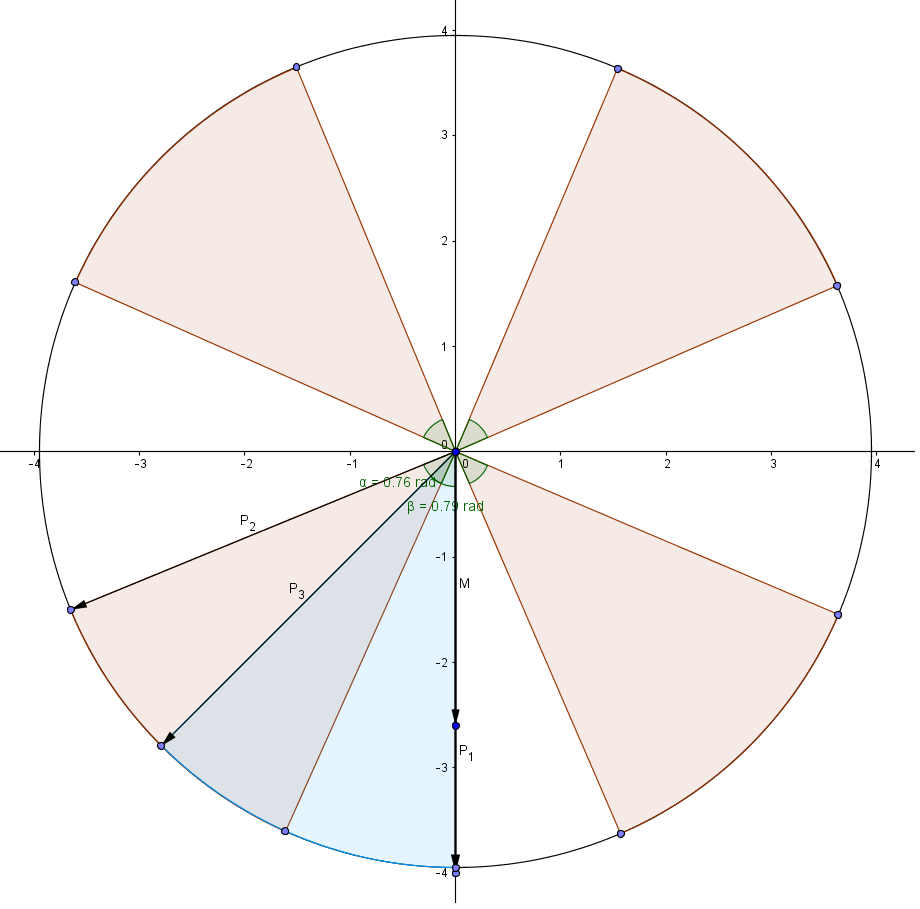
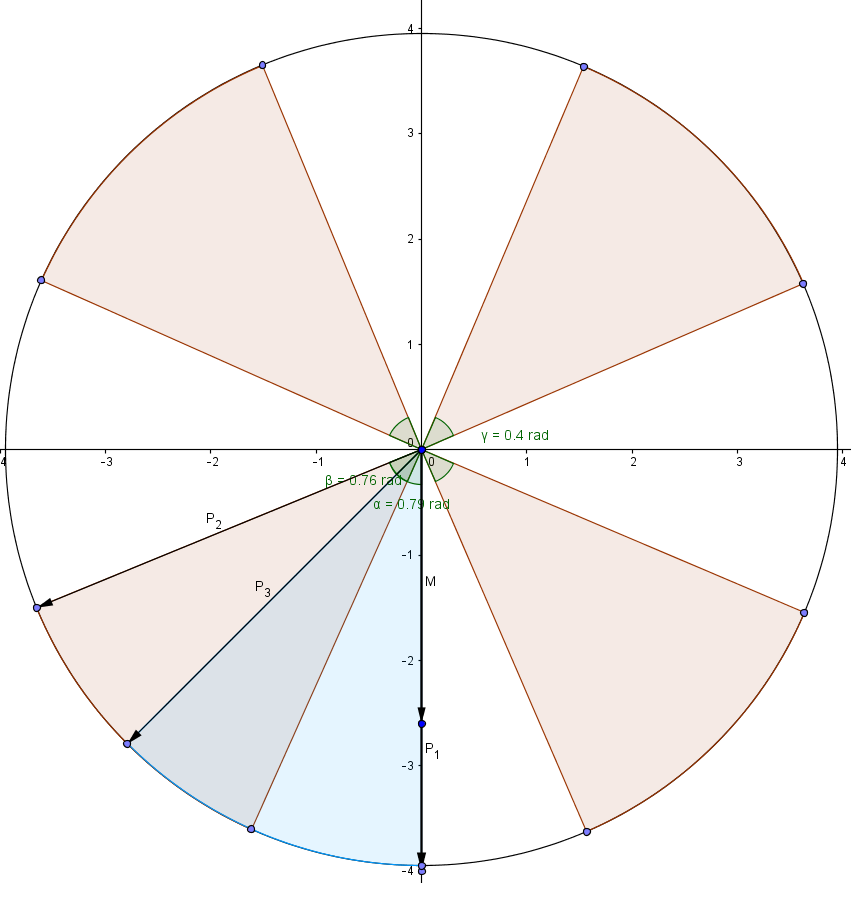
estudo geometrico update

diff --git a/EMMA-SOTA/estudo_geometrico.tex b/EMMA-SOTA/estudo_geometrico.tex
@@ -1,4 +1,4 @@
-\subsection{Estudo geométrico}
+\subsection{Estudo geométrico}\label{sec::estudo_geom}
 O estudo geométrico é uma avaliação simples de alcance dos manipuladores
 industriais no ambiente do aro câmara. Tem como objetivo verificar se o
 manipulador consegue percorrer todos os pontos da pá dentro das restrições da
@@ -11,8 +11,8 @@ Assumimos $R = 3.95 m$ e $R_m = 3 m$, onde $R$ é a distância do centro do cone
 superfície do aro câmara, e $R_m$ é o comprimento da pá. Logo, podemos
 inferir o comprimento do aro câmara $P = 2*\pi *R = 24.81 m$. Em relação ao
 centro do cone, o setor circular que cada pá ocupa tem um ângulo, em radianos,
-de $\alpha = \frac{R_m*2*\pi}{P} = 0.76$, e a metade do setor circular entre
-as pás tem ângulo $\beta = \pi/4$, já que elas são simetricamente distribuídas.
+de $\beta = \frac{R_m*2*\pi}{P} = 0.76$, e a metade do setor circular entre
+as pás tem ângulo $\alpha = \pi/4$, já que elas são simetricamente distribuídas.
 A figura~\ref{pa} mostra os parâmetros acima, onde as pás estão representadas
 como setores circulares roxos e metade da distância entre as pás como setor
 azul.
@@ -25,34 +25,76 @@ azul.
 \end{figure}
 
 Utilizando notação vetorial, temos: $\overrightarrow{P_1} = (0,-R,0)$. Considere
-$$\overrightarrow{{P_2}} = R_z(-(\alpha/2 + \beta))
-\overrightarrow{P_1}$$ e $$\overrightarrow{{P_3}} = R_z(-\beta))
+$$\overrightarrow{{P_2}} = R_z(-(\beta/2 + \alpha))
+\overrightarrow{P_1}$$ e $$\overrightarrow{{P_3}} = R_z(-\alpha))
 \overrightarrow{P_1}$$ , onde $R_z$ é rotação em  torno de $Z$. Considere agora
 o vetor $$\overrightarrow{d} =
-R_{\overrightarrow{\overline{P_3}}}(-\omega)R_z(-\alpha/2 -
-\beta)\overrightarrow{P_1}$$, onde $R_{\overrightarrow{\overline{P_3}}}$ é rotação em torno do vetor unitário
+R_{\overrightarrow{\overline{P_3}}}(-\omega)R_z(-\beta/2 -
+\alpha)\overrightarrow{P_1}$$, onde $R_{\overrightarrow{\overline{P_3}}}$ é rotação em torno do vetor unitário
 na direção de $\overrightarrow{P_3}$ e $\omega$ é o ângulo de rotação da pá em
 seu próprio eixo (valor que pode variar de $0$ a $28^o$).
 Dessa forma, busca-se o $$min (\left \| \overrightarrow{d} - \overrightarrow{M} 
-\right \|) =\left \| R_{\overrightarrow{\overline{P_3}}}(-\omega)R_z(-\alpha/2 -
-\beta)\overrightarrow{P} - \overrightarrow{M} \right \|$$, onde
+\right \|) =\left \| R_{\overrightarrow{\overline{P_3}}}(-\omega)R_z(-\beta/2 -
+\alpha)\overrightarrow{P} - \overrightarrow{M} \right \|$$, onde
 $\overrightarrow{M}=(0,-x,0)$ é a localização da base do manipulador. Dessa
 forma, obtemos a menor distância entre base e o extremo da pá para $\omega,
-x, \beta$. Consequentemente, pode-se inferir o alcance mínimo do manipulador.
+x, \alpha$. Consequentemente, pode-se inferir o alcance mínimo do manipulador.
 
-Pode-se posicionar a base do manipulador em diferentes valores de $\beta$, que é
-o mesmo que girar a turbina e alterar a posição da pá. Para $\beta = 0$, por
-exemplo, o manipulador se encontra em frente à pá, e para $\beta = \pi/4$ ele está entre as pás.
+Pode-se posicionar a base do manipulador em diferentes valores de $\alpha$, que é
+o mesmo que girar a turbina e alterar a posição da pá. Para $\alpha = 0$, por
+exemplo, o manipulador se encontra em frente à pá, e para $\alpha = \pi/4$ ele está entre as pás.
 
 A análise para a escotilha inferior consiste em posicionar o manipulador no
-centro ou entre as pás ($\beta = 0$ ou $\beta = \pi/4$). \ldots 
+centro ou entre as pás ($\alpha = 0$ ou $\alpha = \pi/4$) e assumir $\omega =
+\pi/4$ (pá girada $45^o$). No caso em que o
+manipulador se encontra em frente à pá, alcançar todos os pontos da pá  é
+traçar uma circunferência que a envolve, representando
+a área de alcance do manipulador. Após o cálculo desta
+circunferência, deve-se distanciar ortogonalmente a base do manipulador à pá,
+pois este deve estar posicionado de uma maneira que não haja colisões. A
+figura~\ref{paemfrente} mostra a circunferência, cujo raio pode ser encontrado
+analiticamente pelas equações:
+$$\rho ^2 = r^2+R_c^2-2R_crcos(\beta)$$
+$$\rho ^2 = R^2+R_c^2-2R_cRcos(\beta)$$
+onde $R$ é o raio do aro câmara, $r$ é o raio do cone da turbina, $R_c$ é a
+distância do centro da pá ao centro do cone e $\rho$ é o raio da circunferência
+que circunscreve a pá. Obtêm-se  $\rho=1.6387$ e $h=1.0157$, onde $h$ é a altura
+da base do manipulador ($R-R_c$). Observe que $\rho$ é o alcance para o
+manipulador sob a pá, logo temos que supor uma distância $d$ entre o manipulador
+e a pá a fim de evitar colisões. Assumindo diversos valores para $d$, obtemos o
+gráfico~\ref{reach} que mostra o alcance necessário do manipulador versus
+distância que ele se encontra da pá. 
+
+\begin{figure}[h!]
+\centering
+	\includegraphics[width=\columnwidth]{figs/estudo/geometrico/paemfrente.png} 
+	\caption{Estudo geométrico do manipulador industrial em frente à pá.}
+	\label{paemfrente}
+\end{figure}
+
+\begin{figure}[h!]
+\centering
+	\includegraphics[width=\columnwidth]{figs/estudo/geometrico/reach.png} 
+	\caption{Gráfico que mostra o alcance necessário do manipulador versus a
+	distância que ele se encontra da pá.}
+	\label{reach} 
+\end{figure}
+
+Para uma posição fixa da base, o manipulador, a uma distância de 1 m
+da pá, necessita ter alcance máximo de 1.7 m para percorrer todos os pontos, se
+considerarmos os 230 mm de distância mínimo entre pá e pistola. Esta é uma
+solução inviável para um manipulador de médio porte e com o payload necessário.
+Portanto, será realizada uma análise mais profunda levando em consideração
+possibilidade de movimentação da base horizontalmente por atuador ou
+manualmente.
 
 Na escotilha superior, como há restrição em relação ao manipulador (LBR 820), há
-a necessidade de base móvel, que pode assumir diversos comprimentos e posições.
-A solução de uma base com dois elos está representada na figura~\ref{pakuka},
-onde os elos i e j estão representados em verde, o cone representado pela
-circunferência c, o espaço de trabalho planar do manipulador está representado
-em verde, 
+a necessidade de uma base móvel, que possa assumir diversos comprimentos e
+posições. A solução de uma base com dois elos está representada na
+figura~\ref{pakuka}, onde os elos i e j estão representados em verde, o cone
+da turbina representado pela circunferência c, o espaço de trabalho planar do
+manipulador está representado em verde, e a pá representada como um setor
+circular em vermelho.
 
 \begin{figure}[h!]
 \centering

diff --git a/EMMA-SOTA/desc_hvof.tex b/EMMA-SOTA/desc_hvof.tex
@@ -61,6 +61,37 @@ realiza a medida de porosidade, oxidação, dureza e rugosidade da superfície. 
 processo é realizado manualmente, de maneira rápida e fácil, por um operador e
 pontos específicos da pá são analisados.
 
+A tabela~\ref{tab::hvof} resume as restrições e especificações do
+projeto:
+
+\begin{table*}
+\begin{tabular}{  c | c  }
+  \hline
+  \textbf{Componente} & \textbf{Dado} \\ \hline
+  Material da pá & Aço Inox 420 \\ \hline
+  Material do aro câmara & Alta permeabilidade magnética  \\ \hline
+  Carga máxima do manipulador da Rijeza & 150 Kg  \\ \hline
+  Massa da pistola HVOF & 8 Kg  \\ \hline
+  Massa dos cabos HVOF & 12 Kg  \\ \hline
+  Tempo médio do processo por pá & 6 horas \\ \hline
+  Temperatura da chama HVOF & $3000^oC$ \\ \hline
+  Velocidade das partículas HVOF & 700 a 1000 m/s \\ \hline
+  Força de recuo da pistola & 15 N \\ \hline
+  Precisão do manipulador da Rijeza & 5 mm \\ \hline
+  Distância entre pistola e pá & 230 a 240 mm \\ \hline
+  Ângulo entre pistola e pá & $30^o$ a $90^o$ \\ \hline
+  Velocidade do manipulador & 40 m/s \\ \hline
+  Ruído do processo & 100 a 140 dB \\ \hline
+  Porcentagem de partículas perdidas durante processo & 40\% \\ \hline
+  Temepratura que a pá pode atingir & $110^oC$ \\ \hline
+  \hline
+\end{tabular}
+%\captionof{table}{Dados principais do processo HVOF}
+
+%\caption{Dados principais do processo de metalização HVOF}
+\label{tab::hvof}
+\end{table*}
+
 %Sistemas robóticos não devem utilizar magnetismo como meio de aderência, já que
 %o aço inox 420 não apresenta alta permeabilidade magnética e a alta temperatura
 %da pá deve inviabilizar essa solução. Adesão por ventosas é uma solução
